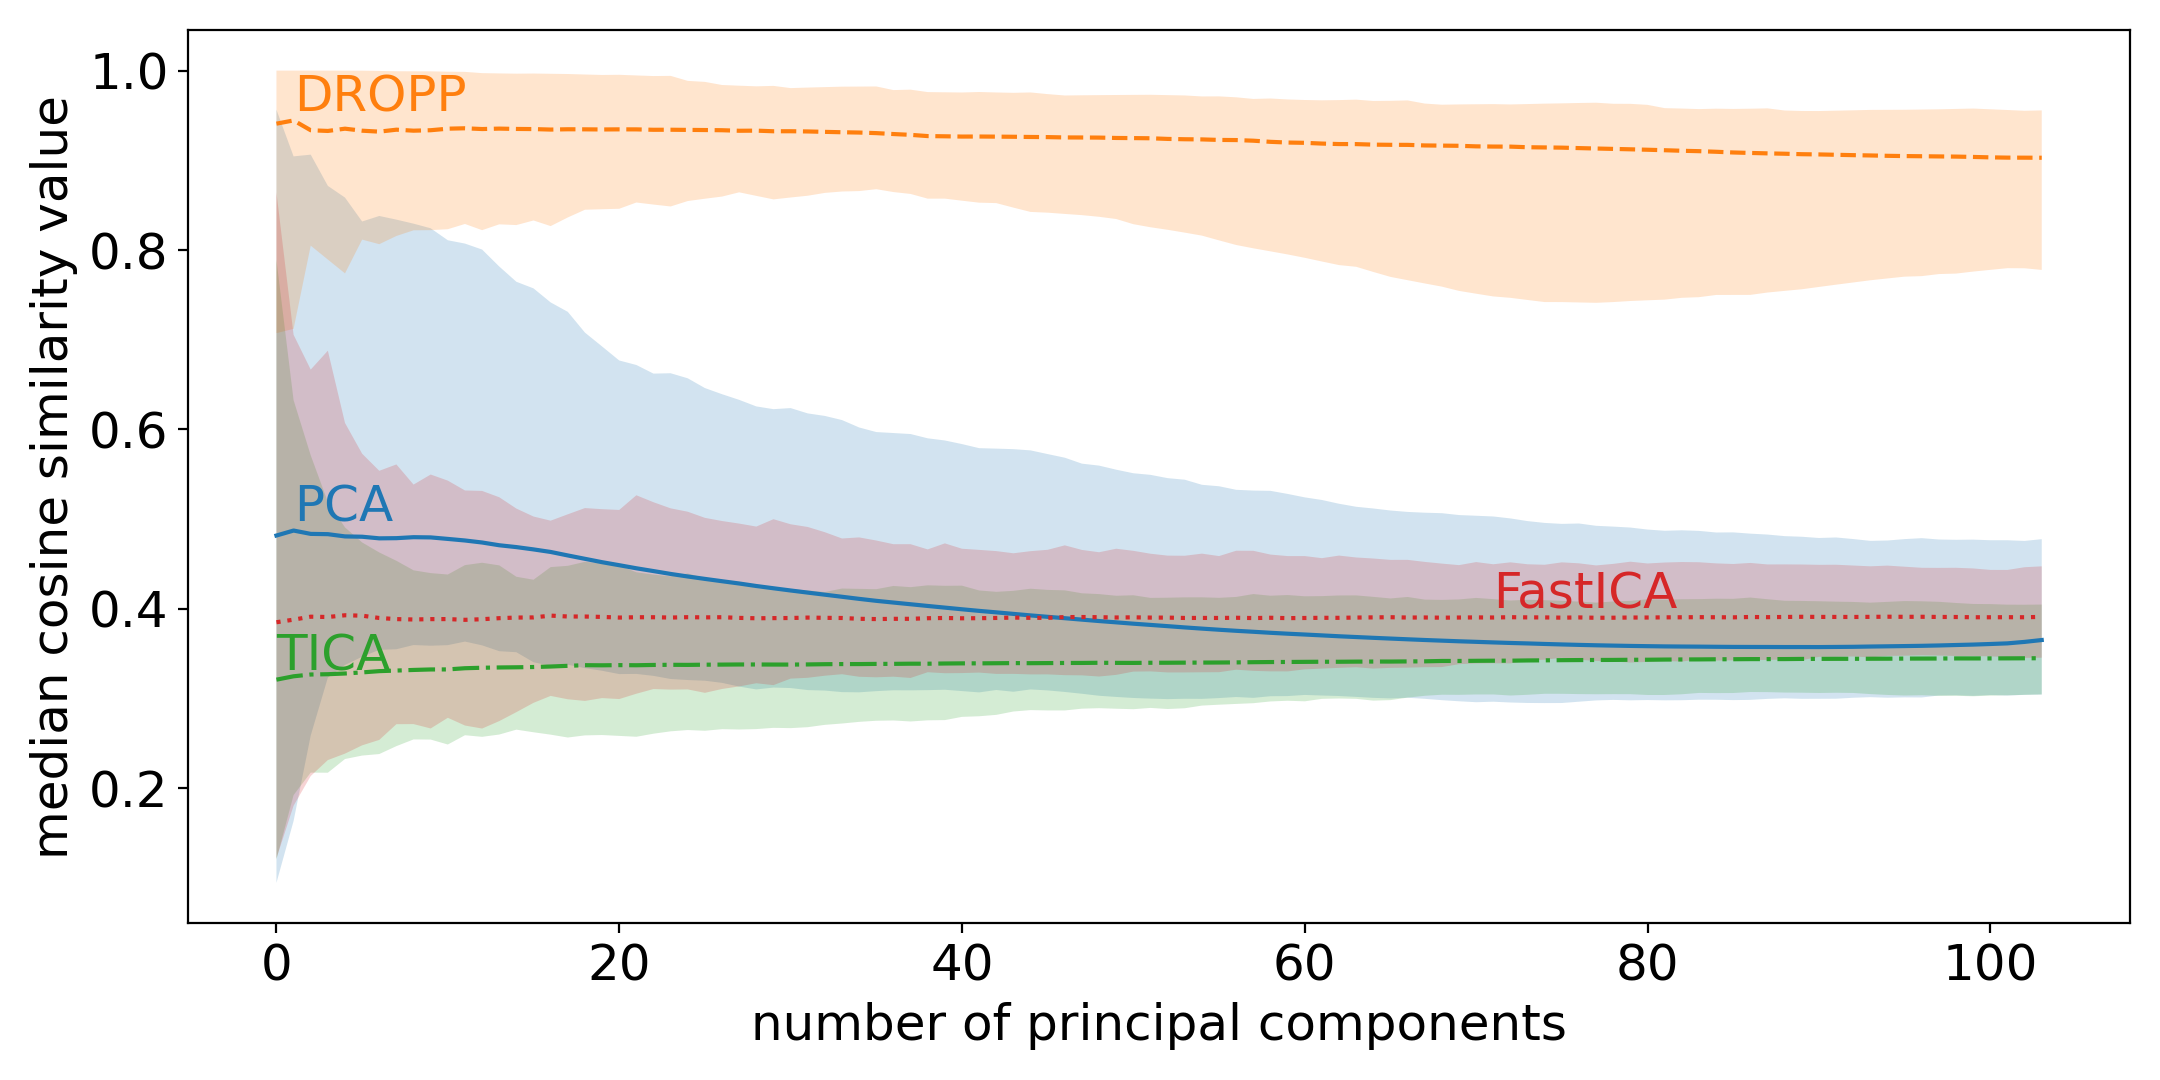
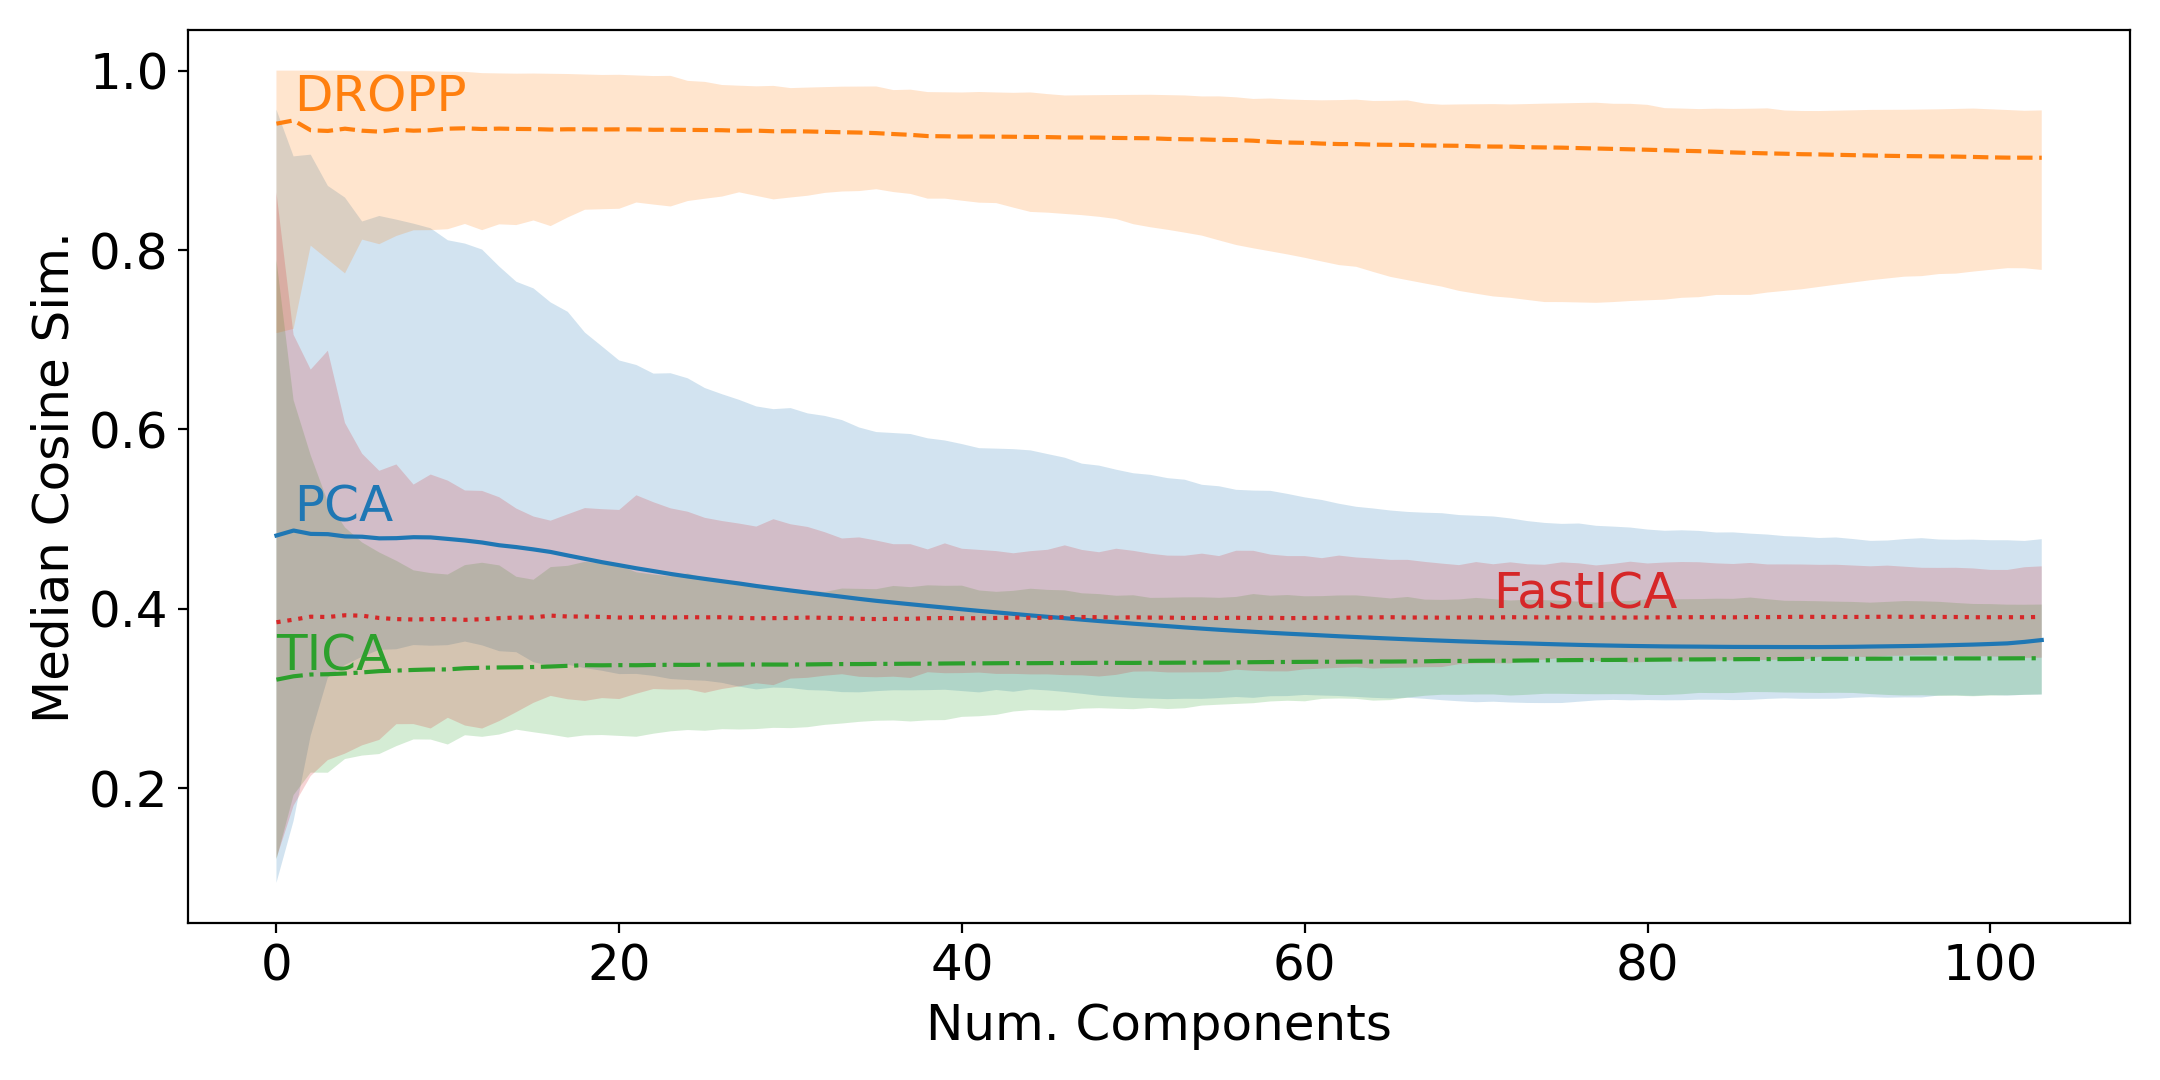
Adjust plots, AnalyseLoader and Merger

Changed region(s): [[0.3412, 0.9167, 0.7134, 0.9778], [0.0, 0.0917, 0.031, 0.7944]]

diff --git a/plotter.py b/plotter.py
@@ -477,6 +477,7 @@ class ArrayPlotter(MyPlotter):
         """
         c_map = plt.cm.viridis
         # c_map = plt.cm.seismic
+        # c_map = plt.cm.hot
         if as_surface == PLOT_3D_MAP:
             x_coordinates = np.arange(matrix.shape[0])
             y_coordinates = np.arange(matrix.shape[1])
@@ -486,7 +487,7 @@ class ArrayPlotter(MyPlotter):
             self.axes.set_zlabel('Covariance Values', fontsize=self.fontsize)
             im = self.axes.plot_surface(x_coordinates, y_coordinates, matrix, cmap=c_map)
         else:
-            self.fig, self.axes = plt.subplots(1, 1, dpi=80)
+            self.fig, self.axes = plt.subplots(1, 1, figsize=(1080 / 180, 1080 / 180), dpi=180)
             im = self.axes.matshow(matrix, cmap=c_map)
             if show_values:
                 for (i, j), value in np.ndenumerate(matrix):
@@ -522,7 +523,7 @@ class ArrayPlotter(MyPlotter):
             Some statistical numpy function
         :return:
         """
-        self.fig, self.axes = plt.subplots(1, 1, figsize=(1080 / 180, 1080 / 180), dpi=180)
+        self.fig, self.axes = plt.subplots(1, 1, figsize=(1350 / 180, 1080 / 180), dpi=180)
         self.axes.plot(x_index, gauss_fitted, '-', label=f'fit {fit_method}', linewidth=3.0)
         # self.axes.plot(x_index, gauss_fitted, ' ')
         self.axes.plot(x_index, ydata, '.', label='original data')
@@ -533,10 +534,10 @@ class ArrayPlotter(MyPlotter):
             # TODO: xy is hardcoded for 2f4k
             if fit_method == MY_SINC + '_center':
                 fit_method = MY_SINC
-            self.axes.annotate('threshold', xy=(-32, 0.03), color='tab:green', fontsize=self.fontsize)
-            self.axes.annotate('mean of\ndiagonals', xy=(5, -0.5), color='tab:orange', fontsize=self.fontsize)
-            self.axes.annotate('rescaled\ndiagonal\nvalues', xy=(10, 0.03), color='tab:red', fontsize=self.fontsize)
-            self.axes.annotate(f'{fit_method.replace("my_", "")}\ncurve', xy=(4, 0.6), color='tab:blue',
+            self.axes.annotate('threshold', xy=(-5, 0.675), color='tab:green', fontsize=self.fontsize)
+            self.axes.annotate('mean of\ndiagonals', xy=(-14, 0.8), color='tab:orange', fontsize=self.fontsize)
+            # self.axes.annotate('rescaled\ndiagonal\nvalues', xy=(10, 0.03), color='tab:red', fontsize=self.fontsize)
+            self.axes.annotate(f'{fit_method.replace("my_", "")}\ncurve', xy=(4, 0.88), color='tab:blue',
                                fontsize=self.fontsize)
             # for flattened data
             # self.axes.annotate('threshold', xy=(-100, 0.03), color='tab:green', fontsize=self.fontsize)
@@ -548,7 +549,7 @@ class ArrayPlotter(MyPlotter):
             self._activate_legend = True
         self.axes.plot(x_index, statistical_value, '-', label=function_label)
         # self.axes.plot(x_index, statistical_value, ' ')
-        self.axes.plot(x_index, new_ydata, '+', label='re-scaled data')
+        # self.axes.plot(x_index, new_ydata, '+', label='re-scaled data')
         # self.axes.plot(x_index, new_ydata, ' ')
         self._post_processing()
 
@@ -583,16 +584,30 @@ class ArrayPlotter(MyPlotter):
 
             if self.for_paper:
                 self._activate_legend = False
-                hard_coded_function = ''
+                hard_coded_function = 'EV-2019-rad-diff'
                 if (key.startswith('DROPP') and
-                        hard_coded_function in ['FooToa-2f4k', 'EV-sim-2f4k', 'FooToa-weather-2019']):
+                        hard_coded_function in ['FooToa-2f4k', 'EV-sim-2f4k', 'FooToa-weather-2019',
+                                                'FooToa-FSP', 'EV-2019-rad-dir', 'EV-2019-rad-diff']):
                     if hard_coded_function == 'FooToa-2f4k':
                         xy = (55, 0.23)
                     elif hard_coded_function == 'EV-sim-2f4k':
                         xy = (60, 0.96)
                     elif hard_coded_function == 'FooToa-weather-2019':
                         xy = (5, 0.05)
-                        print(xy)
+                    elif hard_coded_function == 'FooToa-FSP':
+                        xy = (10, 0.4)
+                    elif hard_coded_function == 'EV-2019-rad-dir':
+                        xy = (13, 0.96)
+                    elif hard_coded_function == 'EV-2019-rad-diff':
+                        xy = (13, 0.95)
+                    else:
+                        xy = (0, 0)
+                elif (key.startswith('TICA') and
+                        hard_coded_function in ['EV-2019-rad-dir', 'EV-2019-rad-diff']):
+                    if hard_coded_function == 'EV-2019-rad-dir':
+                        xy = (0, 0.68)
+                    elif hard_coded_function == 'EV-2019-rad-diff':
+                        xy = (0, 0.61)
                     else:
                         xy = (0, 0)
                 else:

diff --git a/analyse.py b/analyse.py
@@ -1,3 +1,4 @@
+import glob
 import os
 import warnings
 from datetime import datetime
@@ -92,7 +93,7 @@ class SingleTrajectoryAnalyser:
             model = model_result[MODEL]
             ArrayPlotter(
                 title_prefix=f'Eigenvalues of\n{model}',
-                x_label='Principal Component Number',
+                x_label='Num. Components',
                 y_label='Eigenvalue',
                 for_paper=self.params[PLOT_FOR_PAPER]
             ).plot_2d(ndarray_data=model.explained_variance_)
@@ -272,8 +273,8 @@ class MultiTrajectoryAnalyser:
                     title_prefix=f'{trajectory_pair[0]["model"]}\n'
                                  f'{trajectory_pair[0]["traj"].filename} & {trajectory_pair[1]["traj"].filename}\n'
                                  f'PC Similarity',
-                    x_label='Principal Component Number',
-                    y_label='Principal Component Number',
+                    x_label='Num. Components',
+                    y_label='Num. Components',
                     bottom_text=sim_text
                 ).matrix_plot(cos_matrix)
             all_similarities.append(combo_sim_of_n_pcs)
@@ -320,8 +321,8 @@ class MultiTrajectoryAnalyser:
                         interactive=self.params[INTERACTIVE],
                         title_prefix=f'{self.params[TRAJECTORY_NAME]}\n{model_params}\n'
                                      'Similarity value of all trajectories',
-                        x_label='Principal component number',
-                        y_label='Similarity value',
+                        x_label='Num. Components',
+                        y_label='Median Cosine Sim.',
                         for_paper=self.params[PLOT_FOR_PAPER]
                     ).plot_2d(np.mean(all_sim_matrix, axis=0))
                 else:
@@ -349,8 +350,8 @@ class MultiTrajectoryAnalyser:
             ArrayPlotter(
                 interactive=self.params[INTERACTIVE],
                 title_prefix=f'Eigenvector Similarities',
-                x_label='Principal Component Number',
-                y_label='Similarity value',
+                x_label='Num. Components',
+                y_label='Median Cosine Sim.',
                 # y_range=(0.2, 1),
                 for_paper=self.params[PLOT_FOR_PAPER]
             ).plot_merged_2ds(model_similarities, error_band=similarity_error_bands)
@@ -854,7 +855,7 @@ class AnalyseResultsSaver:
         np.save(self.goal_filename('.npy'), array)
 
     @execute_if_save_enabled
-    def save_to_npz(self, dictionary: dict, new_filename=None):
+    def save_to_npz(self, dictionary: dict, new_filename: str = None):
         if new_filename is not None:
             self.filename = new_filename
         np.savez(self.goal_filename('.npz'), **dictionary)
@@ -875,6 +876,15 @@ class AnalyseResultsSaver:
 
         # Save the updated dictionary to the file
         np.savez(file_path, **dictionary)
+
+
+def merge_npz_files(file1, file2, output_file):
+    data1 = np.load(file1)
+    data2 = np.load(file2)
+
+    merged_data = {**data1, **data2}
+
+    np.savez(output_file, **merged_data)
 
 
 class AnalyseResultLoader:
@@ -902,7 +912,7 @@ class AnalyseResultLoader:
 
     def load_npz_files_in_directory(self, directory_name):
         directory_path = self.get_load_path(directory_name)
-        filename_list = os.listdir(directory_path)
+        filename_list = [file for file in os.listdir(directory_path) if file.endswith(".npz")]
         return self.load_npz_list(directory_name, filename_list)
 
     def load_npz_list(self, root_dir, filename_list):

diff --git a/config.py b/config.py
@@ -83,16 +83,25 @@ def get_files_and_kwargs(params: dict):
         kwargs = {FILENAME: filename_list[file_element], TOPOLOGY_FILENAME: 'fs-peptide.pdb',
                   FOLDER_PATH: 'data/fs-peptide'}
     elif data_set == 'weather':
-        country = trajectory_name
+        # country = trajectory_name
         filename_list = []
-        country_list = ['BE', 'BG', 'CH', 'CZ', 'DE', 'DK', 'EE', 'ES', 'FI',
-                        'FR', 'GB', 'GR', 'HR', 'HU', 'IE', 'IT', 'LT', 'LU',
-                        'LV', 'NL', 'NO', 'PL', 'PT', 'RO', 'SE', 'SI', 'SK']
-        # country_list = ['BE', 'DE', 'DK', 'GB', 'IE', 'LT', 'LU', 'LV', 'NL']  # radiation_direct 17
-        country_list = ['BE', 'CH', 'DE', 'FR', 'HU', 'IE', 'LU', 'NL', 'PL', 'RO', 'SK']  # radiation_diffuse 17
+        if trajectory_name == 'all_weather':
+            country_list = ['BE', 'BG', 'CH', 'CZ', 'DE', 'DK', 'EE', 'ES', 'FI',
+                            'FR', 'GB', 'GR', 'HR', 'HU', 'IE', 'IT', 'LT', 'LU',
+                            'LV', 'NL', 'NO', 'PL', 'PT', 'RO', 'SE', 'SI', 'SK']
+
+            if REDUCEE_FEATURE in params.keys():
+                if params[REDUCEE_FEATURE] == 'radiation_direct_horizontal':
+                    country_list = ['BE', 'DE', 'DK', 'GB', 'IE', 'LT', 'LU', 'LV', 'NL']  # radiation_direct 17
+                elif params[REDUCEE_FEATURE] == 'radiation_diffuse_horizontal':
+                    country_list = ['BE', 'CH', 'DE', 'FR', 'HU', 'IE', 'LU', 'NL', 'PL',
+                                    'RO', 'SK']  # radiation_diffuse 17
+
+        else:
+            country_list = [trajectory_name]
         for country in country_list:
             folder_path = f'data/weather_data/all_weather/'
-            # filename_list = filename_list + [f'weather_{country}_{i}.csv' for i in range(1980, 2019 + 1)]
+            # filename_list = filename_list + [f'weather_{country}_{i}.csv' for i in range(2015, 2019 + 1)]
             filename_list.append(f'weather_{country}_2019.csv')
 
             if not os.path.isfile(folder_path + filename_list[-1]):

diff --git a/load_results.py b/load_results.py
@@ -71,7 +71,7 @@ def load_analyse_results_dict(result_load_files: list, kwargs: dict):
 def load_re_over_component_span(directory_root: str, kwargs: dict):
     npzs = AnalyseResultLoader(kwargs[PARAMS][TRAJECTORY_NAME]).load_npz_files_in_directory(directory_root)
     plot_dict = next(v for k, v in npzs.items() if 'median' in k)
-    # a = ['PCA', 'DROO', 'TICA', 'FastICA']
+    # a = ['PCA', 'DROPP', 'TICA', 'FastICA']
     # plot_dict = OrderedDict((key, plot_dict[key]) for key in a)
     error_band = next(v for k, v in npzs.items() if 'error_bands' in k)
     from_other_traj = True
@@ -97,7 +97,7 @@ def load_foo_toa_tws(directory_root: str, kwargs: dict):
         interactive=kwargs[PARAMS][INTERACTIVE],
         title_prefix=f'FooToa on varying time window size',
         x_label='Time window size',
-        y_label='Median RE',
+        y_label='Mean Squared Error',
         for_paper=kwargs[PARAMS][PLOT_FOR_PAPER]
     ).plot_matrix_in_2d(plot_dict, time_steps['time_steps'], component_list['component_list'], error_band)
 
@@ -109,8 +109,8 @@ def load_eigenvector_similarities(directory_root: str, kwargs: dict):
     ArrayPlotter(
         interactive=kwargs[PARAMS][INTERACTIVE],
         title_prefix=f'Eigenvector Similarities',
-        x_label='number of principal components',
-        y_label='median cosine similarity value',
+        x_label='Num. Components',
+        y_label='Median Cosine Sim.',
         # y_range=(0, 1),
         for_paper=kwargs[PARAMS][PLOT_FOR_PAPER]
     ).plot_merged_2ds(plot_dict, error_band=error_band)

diff --git a/utils/matrix_tools.py b/utils/matrix_tools.py
@@ -162,7 +162,7 @@ def calculate_symmetrical_kernel_matrix(
     fit_y = _get_curve_fitted_y(matrix, kernel_name, xdata, rescaled_ydata)
     if flattened:  # bzw. reinterpolate
         fit_y = rescale_array(fit_y, lower_bound=stat_func(fit_y),
-                              interp_range=[stat_func(original_ydata), 1])
+                              interp_range=[stat_func(original_ydata), np.max(original_ydata)])
     kernel_matrix = expand_diagonals_to_matrix(matrix, fit_y)
 
     if analyse_mode is not None:
@@ -170,12 +170,12 @@ def calculate_symmetrical_kernel_matrix(
             return mean_squared_error(rescaled_ydata, fit_y, squared=False)
         elif analyse_mode == PLOT_3D_MAP:
             ArrayPlotter(
-                interactive=True,
+                interactive=False,
                 title_prefix='Combined Covariance Matrix',
-                x_label='\nCarbon-Alpha Atom\nIndex',
-                y_label='\nCarbon-Alpha Atom\nIndex',
+                x_label='Hours',
+                y_label='Hours',
                 for_paper=True
-            ).matrix_plot(matrix, as_surface=PLOT_3D_MAP)
+            ).matrix_plot(matrix, as_surface='2d')
         elif analyse_mode == PLOT_KERNEL_MATRIX_3D:
             ArrayPlotter(
                 interactive=True,
